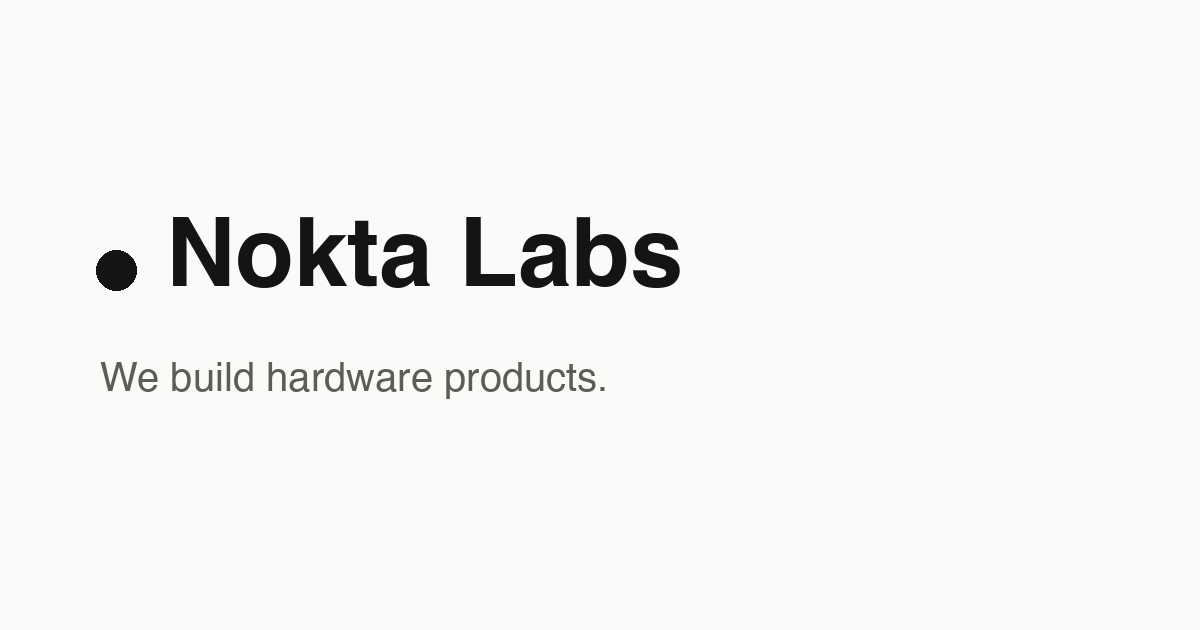
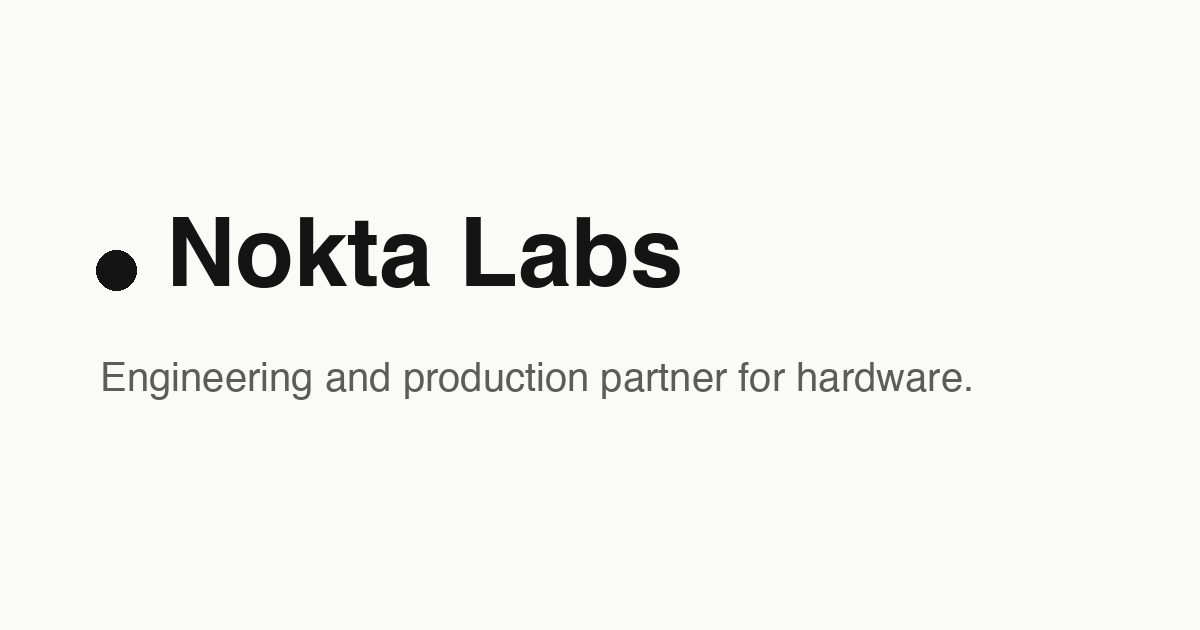
Second copy draft: engineering and production partner
Claude-Session: https://claude.ai/code/session_01N18Ntgns1N1EGHgQ1CWzZF

Changed region(s): [[0.0617, 0.573, 0.8017, 0.6333]]

diff --git a/index.html b/index.html
@@ -3,14 +3,14 @@
 <head>
   <meta charset="utf-8">
   <meta name="viewport" content="width=device-width, initial-scale=1">
-  <title>Nokta Labs</title>
-  <meta name="description" content="Nokta Labs builds hardware products. Product design, PCB design, firmware, software, prototypes and small batches.">
+  <title>Nokta Labs | Engineering and production partner for hardware</title>
+  <meta name="description" content="Nokta Labs is an engineering and production partner for hardware products. Electronics, embedded software, mechanical design, DFM and small batch manufacture, from concept to production.">
   <meta name="theme-color" content="#fafaf8">
   <link rel="canonical" href="https://noktalabs.com/">
   <meta property="og:type" content="website">
   <meta property="og:url" content="https://noktalabs.com/">
   <meta property="og:title" content="Nokta Labs">
-  <meta property="og:description" content="We build hardware products. Bring us an idea, a prototype or a product that is half done.">
+  <meta property="og:description" content="Engineering and production partner for hardware. We take your product from concept to production.">
   <meta property="og:image" content="https://noktalabs.com/media/og.png">
   <link rel="icon" href="/favicon.svg" type="image/svg+xml">
   <link rel="stylesheet" href="/tokens.css">
@@ -24,52 +24,68 @@
 
   <main>
     <section class="wrap hero">
-      <h1>We build hardware products.</h1>
-      <p class="lead">Bring us an idea, a prototype or a product that is half done. We take it to a product that works.</p>
+      <h1>Engineering and production partner for hardware.</h1>
+      <p class="lead">Electronics, embedded software, mechanical design and manufacture. We take your product from concept to production.</p>
       <p class="actions"><a class="btn" href="mailto:hello@noktalabs.com">hello@noktalabs.com</a></p>
     </section>
 
     <section class="wrap">
-      <p class="label">Where you can start</p>
-      <h2>Bring us what you have.</h2>
+      <h2>Our clients bring us</h2>
       <ul class="grid four">
-        <li><p>An idea or a sketch on a napkin.</p></li>
-        <li><p>A product that is half done.</p></li>
-        <li><p>A prototype that must become a product.</p></li>
-        <li><p>A product that works but needs a fix or a redesign.</p></li>
+        <li><h3>A concept</h3><p>A napkin sketch or an idea.</p></li>
+        <li><h3>A partial build</h3><p>A product that is partly engineered.</p></li>
+        <li><h3>A prototype</h3><p>It works, and now it must go to production.</p></li>
+        <li><h3>A product with a problem</h3><p>It fails in the field, or it costs too much to build.</p></li>
       </ul>
     </section>
 
     <section class="wrap">
-      <h2>What we do.</h2>
+      <h2>Our clients ask for</h2>
+      <ul class="grid four">
+        <li><p>A prototype that proves the concept is feasible.</p></li>
+        <li><p>Engineering for one subsystem: a board, the firmware, the enclosure.</p></li>
+        <li><p>The full product, through to the first production run.</p></li>
+        <li><p>A design review, or the root cause of a failure.</p></li>
+      </ul>
+    </section>
+
+    <section class="wrap">
+      <h2>Engineering</h2>
       <ul class="grid">
-        <li><h3>Product design</h3><p>Design for manufacture, materials and sourcing.</p></li>
-        <li><h3>PCB design</h3><p>Schematics, layout and bring-up.</p></li>
-        <li><h3>Firmware</h3><p>The code that runs on the board.</p></li>
-        <li><h3>Software</h3><p>Apps, cloud and the tools around the product.</p></li>
-        <li><h3>Rapid prototyping</h3><p>Parts you can hold.</p></li>
-        <li><h3>Small batch manufacture</h3><p>The first units for your customers.</p></li>
+        <li><h3>Electronics</h3><p>Architecture, component selection, schematic capture, multilayer PCB layout, bring-up and test.</p></li>
+        <li><h3>Embedded software</h3><p>Firmware for microcontrollers and embedded processors: drivers, communication, power management and field updates.</p></li>
+        <li><h3>Mechanical design</h3><p>Enclosures and mechanisms, tolerances, material and process selection.</p></li>
+        <li><h3>Design for manufacture</h3><p>Parts and assemblies designed for the process that makes them, with the supply chain in mind from the start.</p></li>
+        <li><h3>Software and cloud</h3><p>Device back ends, data pipelines and the applications around the product.</p></li>
       </ul>
     </section>
 
     <section class="wrap">
-      <h2>How it works.</h2>
+      <h2>Production</h2>
+      <ul class="grid">
+        <li><h3>Rapid prototyping</h3><p>Functional prototypes for test and review.</p></li>
+        <li><h3>Small batch manufacture</h3><p>The first units for your customers.</p></li>
+        <li><h3>Production handover</h3><p>Sourcing, and a production-ready package for your contract manufacturer.</p></li>
+      </ul>
+    </section>
+
+    <section class="wrap">
+      <h2>How a project runs</h2>
       <ol class="grid four">
-        <li><h3>Write to us</h3><p>Tell us what you have and what you need.</p></li>
-        <li><h3>We talk</h3><p>We look at your project and send a plan and a quote.</p></li>
-        <li><h3>We build</h3><p>In short steps, with working hardware at each one.</p></li>
-        <li><h3>You take it to market</h3><p>You get the units, all the design files and our help with production.</p></li>
+        <li><h3>Scope</h3><p>We review what you have and send a technical plan and a quote.</p></li>
+        <li><h3>Engineer</h3><p>Short iterations, with hardware on your desk at each one.</p></li>
+        <li><h3>Validate</h3><p>Bring-up, test and a DFM review before anything goes to production.</p></li>
+        <li><h3>Produce</h3><p>We build the batch, or hand a production-ready package to your manufacturer.</p></li>
       </ol>
     </section>
 
     <section class="wrap center">
-      <p class="label">Same roof</p>
-      <h2>We make our own products here too.</h2>
-      <p class="lead">We work on yours the way we work on ours.</p>
+      <h2>Our own products</h2>
+      <p class="lead">We develop our own products in the same lab, to the same standard. Every client project gets the same engineering.</p>
     </section>
 
     <section class="wrap center" id="contact">
-      <h2>Tell us about your product.</h2>
+      <h2>Tell us where your product is and where it needs to go.</h2>
       <p class="actions"><a class="btn" href="mailto:hello@noktalabs.com">Email us</a></p>
       <p class="note">hello@noktalabs.com</p>
       <!-- Placeholder until the master sends the Delft address. -->
